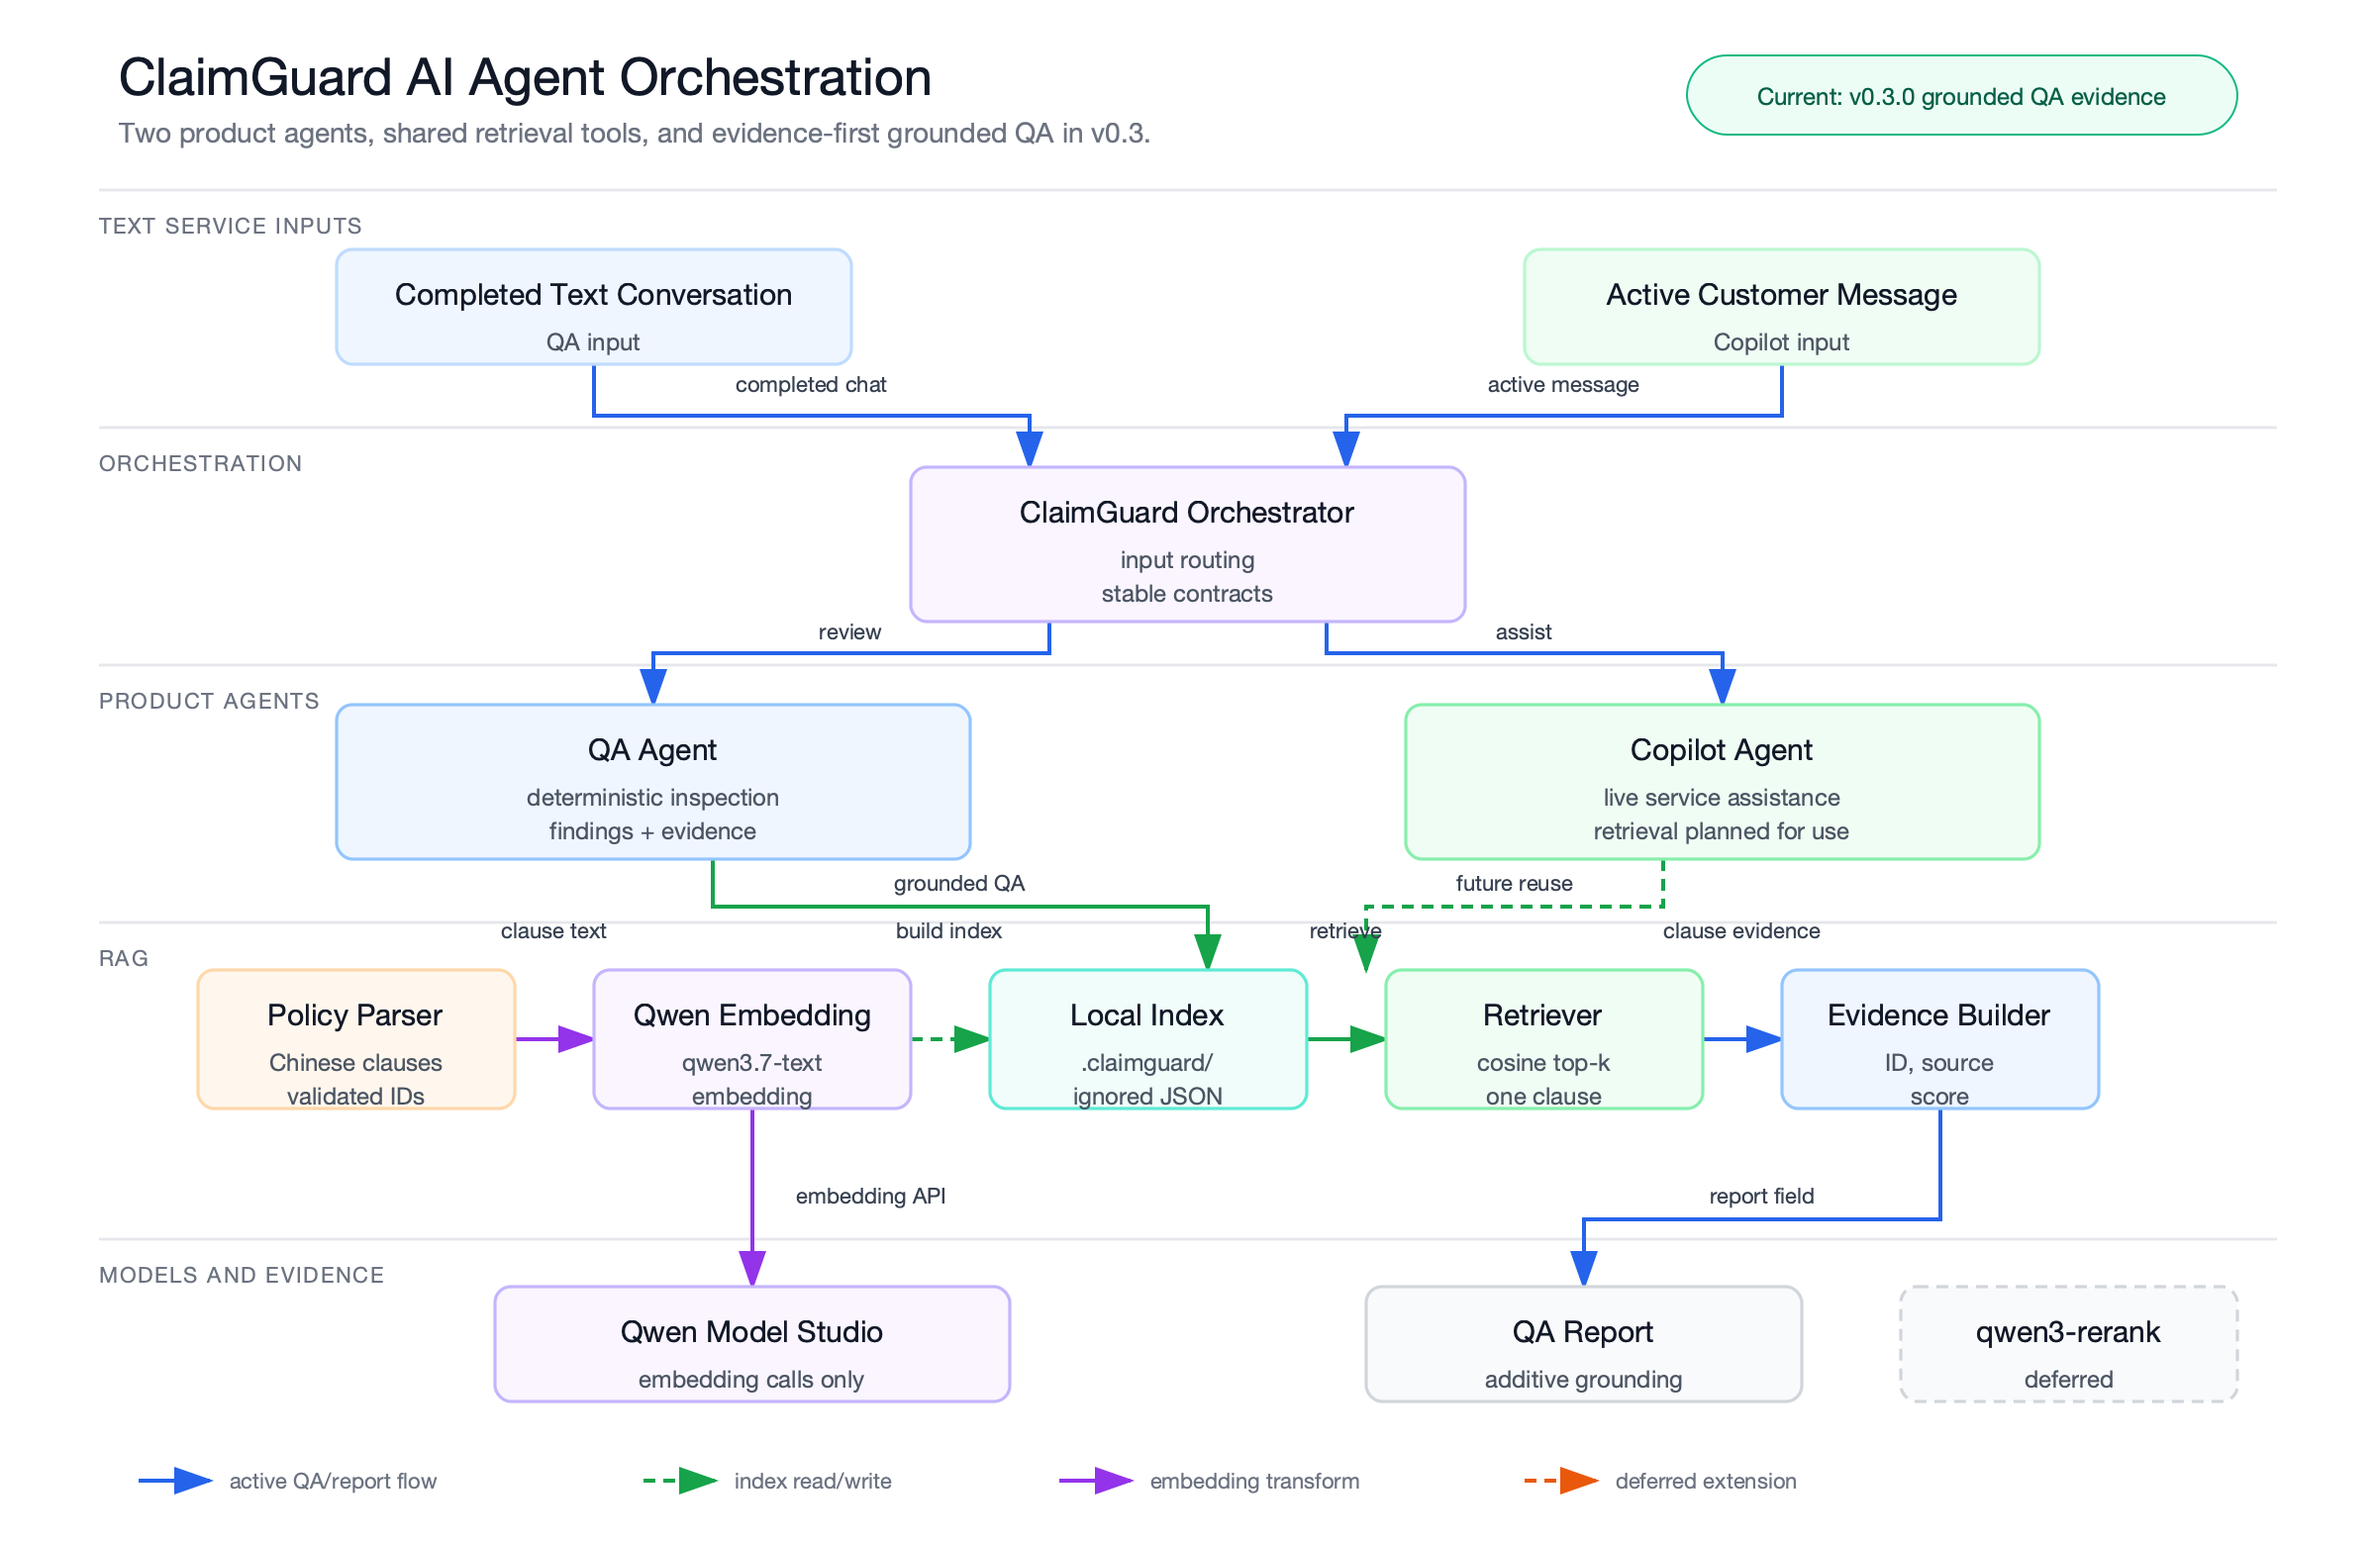
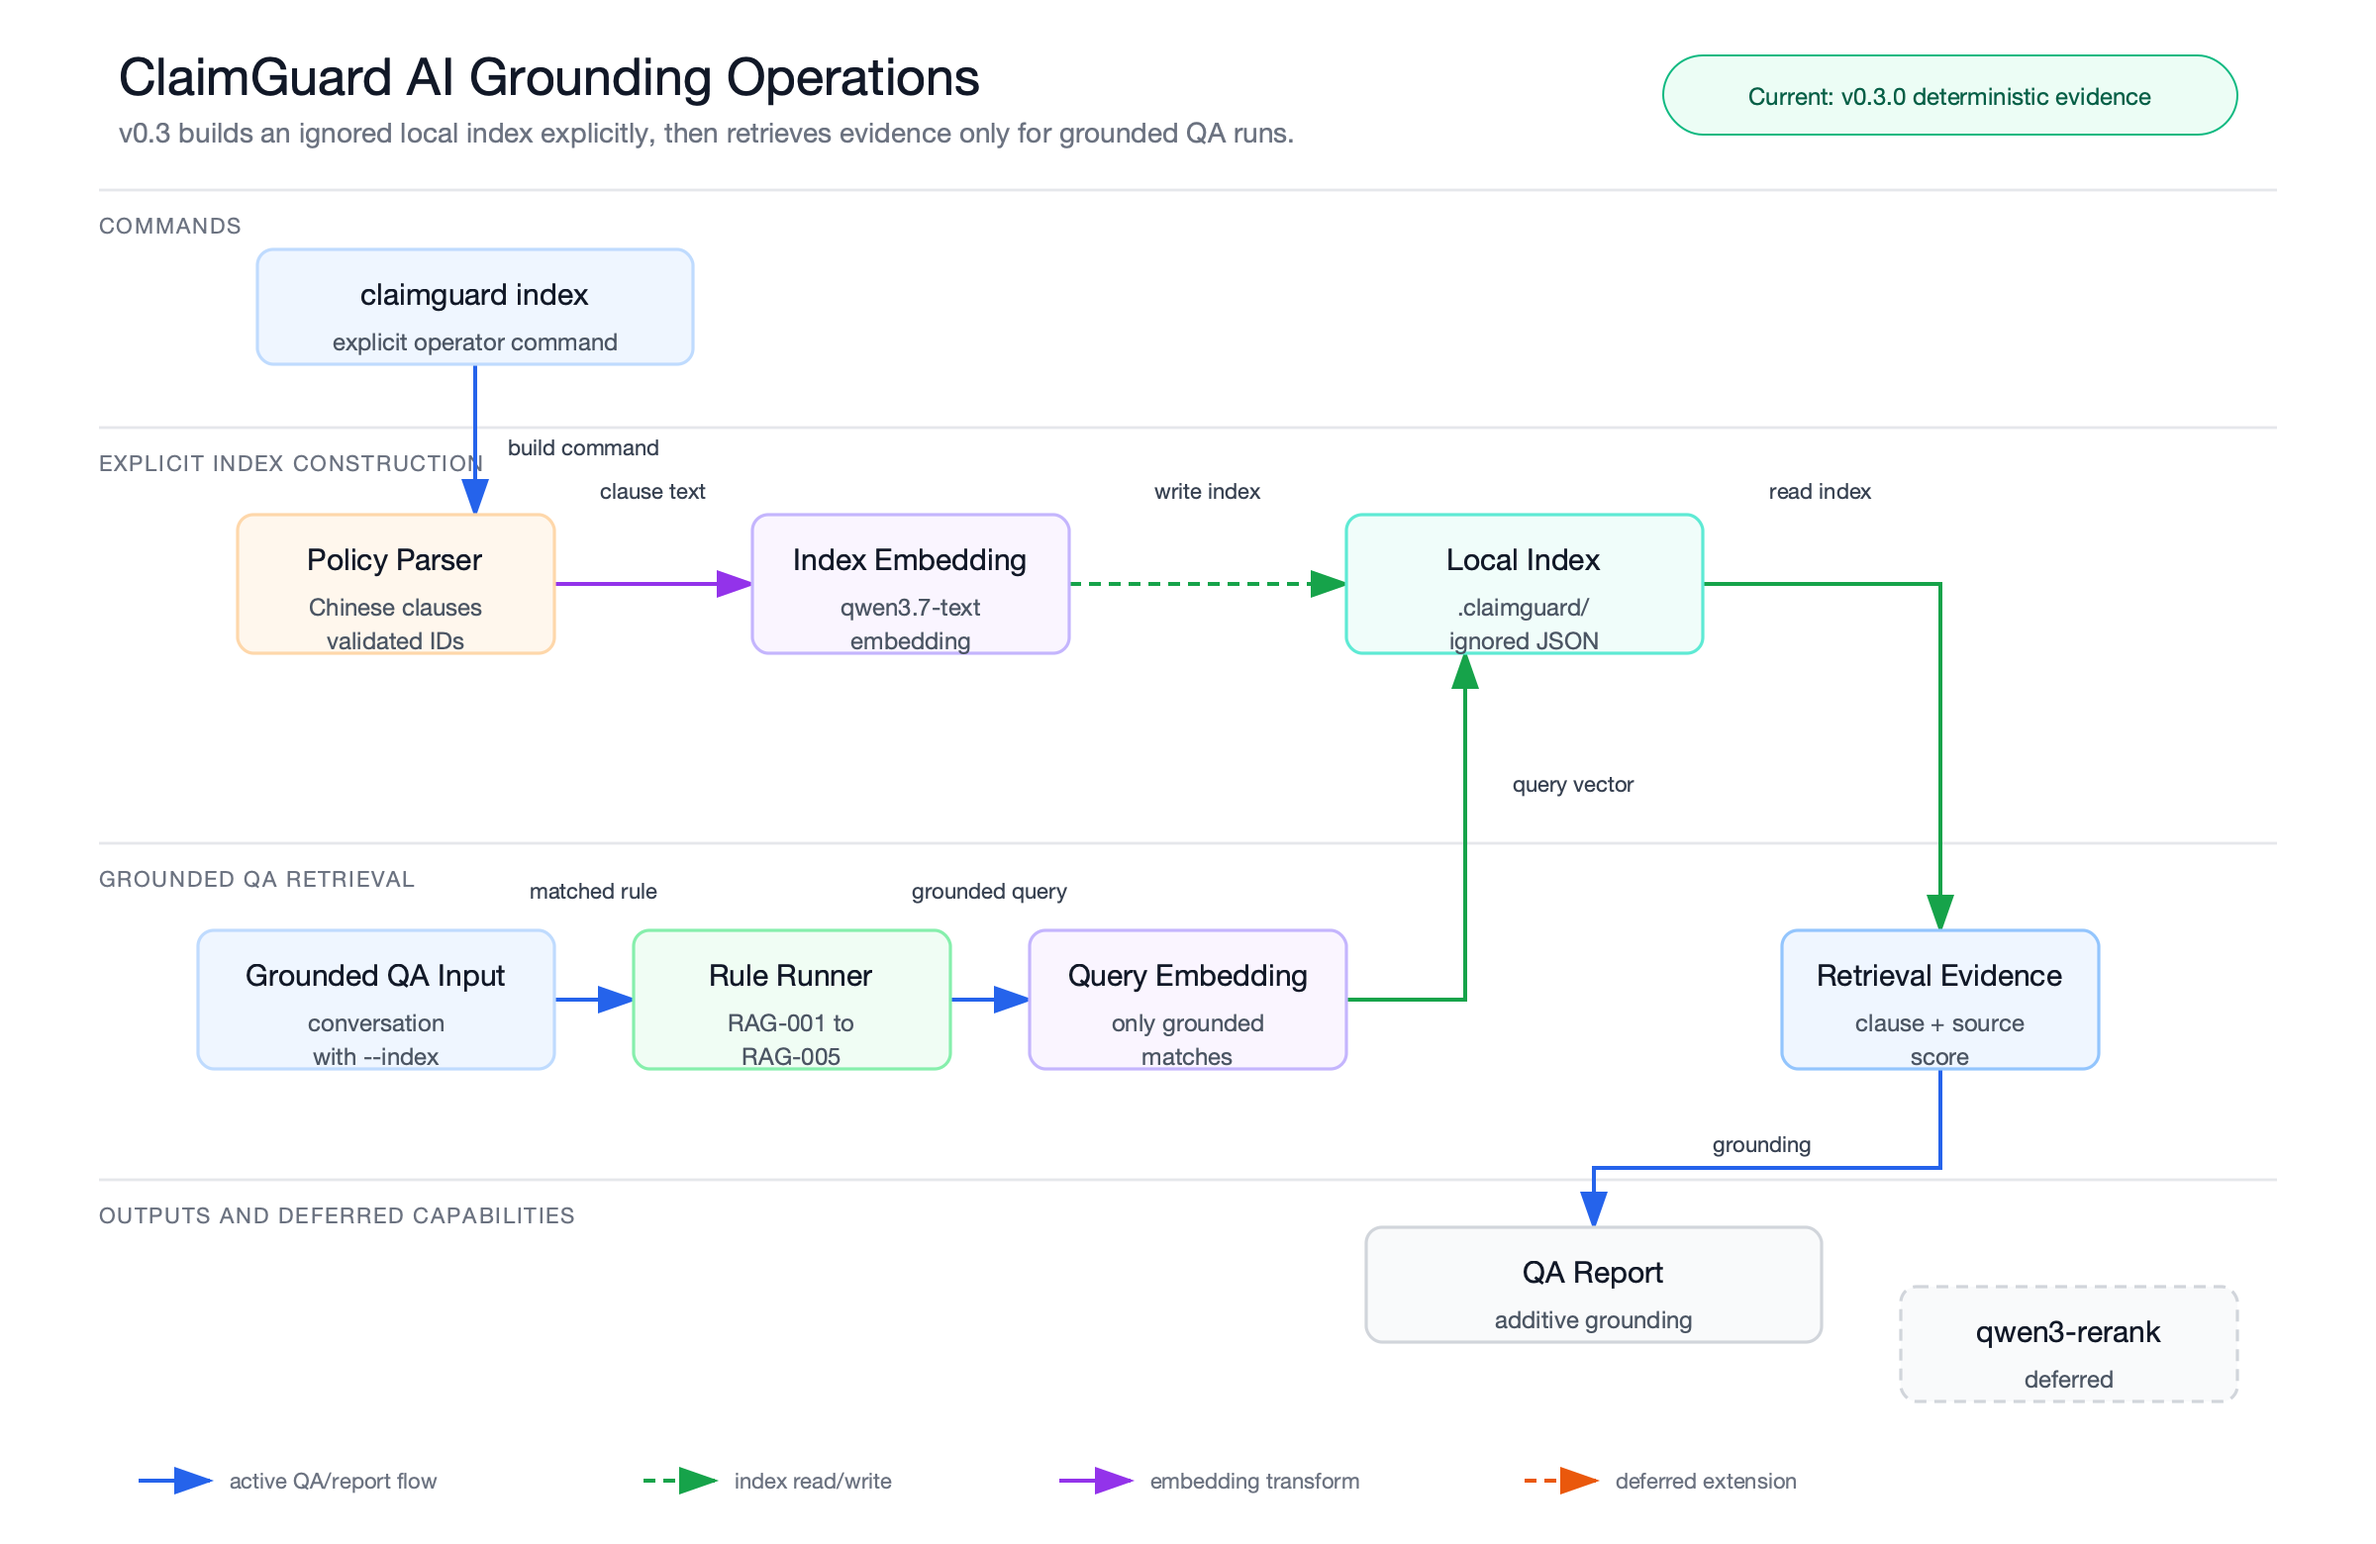
docs: clarify v0.3 grounding runtime scope

diff --git a/tests/test_knowledge.py b/tests/test_knowledge.py
@@ -1,5 +1,6 @@
 import json
 from pathlib import Path
+import re
 import sys
 import tempfile
 import unittest
@@ -29,8 +30,21 @@ class StaticEmbeddingClient:
 
 
 class KnowledgeMetadataTest(unittest.TestCase):
-    def test_public_package_version_matches_v0_3_release(self):
+    def test_package_and_project_metadata_match_v0_3_release(self):
+        project_metadata = (
+            Path(__file__).resolve().parents[1] / "pyproject.toml"
+        ).read_text(encoding="utf-8")
+        project_version_match = re.search(
+            r'^version\s*=\s*"(?P<version>[^"]+)"\s*$',
+            project_metadata,
+            flags=re.MULTILINE,
+        )
+
+        self.assertIsNotNone(project_version_match)
+        project_version = project_version_match.group("version")
         self.assertEqual(claimguard.__version__, "0.3.0")
+        self.assertEqual(project_version, "0.3.0")
+        self.assertEqual(project_version, claimguard.__version__)
 
 
 class KnowledgeTest(unittest.TestCase):

diff --git a/README.md b/README.md
@@ -12,8 +12,9 @@ ClaimGuard AI is a focused GitHub demo project for text-based insurance service.
 ![ClaimGuard AI architecture](docs/assets/architecture.svg)
 
 The current core combines deterministic QA with v0.3 RAG grounding for the
-supported Chinese policy scenarios. LLM judges and a web UI remain future
-milestones; the QA report contract remains stable.
+supported Chinese policy scenarios. v0.3 retrieves clause evidence but does
+not run LLM judges, a citation judge, or reranking; those remain future
+milestones. The QA report contract remains stable.
 
 ## V1 Product
 
@@ -35,24 +36,31 @@ The QA workflow reviews completed conversations.
 - Show violated rule IDs, risk levels, evidence, and reasoning.
 - Suggest a better reply grounded in the correct policy clause.
 
-## V1 Rule Matrix
+## V1 Target Rule Matrix
+
+This is the intended V1 rule design, not a list of active v0.3 runtime
+judges. v0.3 implements deterministic matching and retrieval evidence for
+`RAG-001` through `RAG-005`; LLM and citation-judge detection remains
+deferred.
 
 | Rule ID | Rule | Category | Risk | Detection |
 | --- | --- | --- | --- | --- |
-| SEM-001 | Counter-questioning the customer | Semantic | Critical | LLM judge |
-| SEM-002 | Answer does not address customer intent | Semantic | Critical | Intent + LLM judge |
-| SEM-003 | Impatient service tone | Semantic | Critical | LLM judge |
-| SEM-004 | Complaint not acknowledged or soothed | Semantic | Critical | Intent + LLM judge |
-| SEM-005 | Unapproved commitment | Semantic | Critical | LLM judge |
-| PROC-001 | Incomplete identity disclosure | Process | High | Rule + LLM |
-| PROC-002 | Missing closing statement | Process | Low | Rule + LLM |
-| RAG-001 | Claim amount dispute: deductible | Knowledge-grounded | Medium | RAG + LLM judge |
-| RAG-002 | Pre-policy or waiting-period treatment denial | Knowledge-grounded | Medium | RAG + LLM judge |
-| RAG-003 | Disease outside policy coverage | Knowledge-grounded | Medium | RAG + LLM judge |
-| RAG-004 | Accident definition explanation | Knowledge-grounded | Medium | RAG + LLM judge |
-| RAG-005 | Dynamic clause citation for pet insurance denial | Knowledge-grounded | High | Intent + RAG + Citation judge |
+| SEM-001 | Counter-questioning the customer | Semantic | Critical | LLM judge (future) |
+| SEM-002 | Answer does not address customer intent | Semantic | Critical | Intent + LLM judge (future) |
+| SEM-003 | Impatient service tone | Semantic | Critical | LLM judge (future) |
+| SEM-004 | Complaint not acknowledged or soothed | Semantic | Critical | Intent + LLM judge (future) |
+| SEM-005 | Unapproved commitment | Semantic | Critical | LLM judge (future) |
+| PROC-001 | Incomplete identity disclosure | Process | High | Rule + LLM (future) |
+| PROC-002 | Missing closing statement | Process | Low | Rule + LLM (future) |
+| RAG-001 | Claim amount dispute: deductible | Knowledge-grounded | Medium | RAG evidence + LLM judge (future) |
+| RAG-002 | Pre-policy or waiting-period treatment denial | Knowledge-grounded | Medium | RAG evidence + LLM judge (future) |
+| RAG-003 | Disease outside policy coverage | Knowledge-grounded | Medium | RAG evidence + LLM judge (future) |
+| RAG-004 | Accident definition explanation | Knowledge-grounded | Medium | RAG evidence + LLM judge (future) |
+| RAG-005 | Dynamic clause citation for pet insurance denial | Knowledge-grounded | High | Intent + RAG evidence + Citation judge (future) |
 
-`RAG-005` is the V1 hero case because it demonstrates intent routing, retrieval, citation accuracy, and grounded answer quality in one scenario.
+`RAG-005` is the V1 target hero case because it is intended to demonstrate
+intent routing, retrieval, citation accuracy, and grounded answer quality in
+one scenario. In v0.3 it attaches retrieved clause evidence only.
 
 ## Technical Direction
 
@@ -70,7 +78,7 @@ The project should show product judgment, not agent sprawl. A compact workflow i
 
 Current package version: `0.3.0`.
 
-M2 adds the first deterministic rule runner. QA findings now come from conversation text instead of the fixture's `expected_risks` field. The fixture field remains as test oracle data while LLM and RAG behavior are still under development.
+M2 adds the first deterministic rule runner. QA findings now come from conversation text instead of the fixture's `expected_risks` field. The fixture field remains as test oracle data while LLM behavior is still under development.
 
 `v0.2.1` is a documentation patch that adds README architecture and roadmap diagrams.
 
@@ -80,7 +88,8 @@ orchestration and domestic model defaults in `docs/agent-orchestration.md`.
 `v0.3.0` adds deterministic Chinese policy grounding: a policy parser and
 validated local index, Qwen `qwen3.7-text-embedding` retrieval, five supported
 RAG rules, retrieval evidence on QA findings, and backward-compatible CLI
-commands for index creation and grounded QA.
+commands for index creation and grounded QA. It does not add LLM judges,
+reranking, or citation-accuracy judgment.
 
 ## Repository Layout
 

diff --git a/docs/architecture.md b/docs/architecture.md
@@ -4,13 +4,18 @@ ClaimGuard AI uses three judgment paths depending on the risk type. In v0.3,
 the deterministic knowledge-grounded path is implemented for five Chinese
 policy scenarios and attaches retrieved-clause evidence to its findings.
 
-## Semantic QA
+## Semantic QA (Future)
 
-Semantic rules use intent detection plus LLM judgment to inspect tone, relevance, complaint handling, and unsupported commitments. These rules are not simple keyword checks because hostile or evasive responses can appear in many forms.
+The target semantic rules will use intent detection plus LLM judgment to
+inspect tone, relevance, complaint handling, and unsupported commitments.
+Those LLM judges are not active in v0.3.
 
-## Process QA
+## Process QA (Future)
 
-Process rules combine deterministic checks with LLM normalization. The goal is to accept flexible wording while still enforcing required service steps, such as identity disclosure and conversation closing.
+The target process rules will combine deterministic checks with LLM
+normalization. This future work aims to accept flexible wording while still
+enforcing required service steps, such as identity disclosure and conversation
+closing.
 
 ## Knowledge-grounded QA
 
@@ -19,8 +24,10 @@ Knowledge-grounded rules parse supported Chinese policy headings, use
 top retrieved clause to a finding. The implemented v0.3 rules are `RAG-001`
 through `RAG-005`; they cover deductible, waiting-period, coverage, accident,
 and denial-citation cases. The report exposes clause ID, title, text, source
-path, and retrieval score as additive evidence. `RAG-005` remains the V1 hero
-case because it demonstrates retrieval and citation evidence in one flow.
+path, and retrieval score as additive evidence. This evidence identifies the
+selected clause; it is not a citation-accuracy judgment. `RAG-005` remains a
+future V1 hero case for retrieval and citation accuracy after a citation judge
+is implemented.
 
 The local index is an ignored operator artifact under `.claimguard/`. The
 embedding client is created only for index creation and grounded retrieval;

diff --git a/docs/agent-orchestration.md b/docs/agent-orchestration.md
@@ -6,25 +6,26 @@ judgment, and clear QA evidence instead of a large multi-agent chat graph.
 
 ## Current State
 
-The current `v0.3.0` codebase keeps its deterministic QA workflow and adds a
-narrow, evidence-producing RAG path for supported Chinese policy scenarios:
+The current `v0.3.0` codebase keeps its deterministic QA workflow and adds two
+separate RAG operations for supported Chinese policy scenarios:
 
 ```text
-QA CLI
-  -> Conversation Loader
-  -> Rule Catalog
-  -> Deterministic Rule Runner
-  -> optional Policy Parser + Local Knowledge Index
-  -> optional Qwen Embedding Retrieval
+Index construction (explicit `claimguard index` command)
+  -> Policy Parser -> Qwen Embedding -> Local Knowledge Index
+
+Grounded QA (only with `--index`)
+  -> Conversation Loader -> Rule Catalog -> Deterministic Rule Runner
+  -> Query Embedding -> Existing Local Knowledge Index -> Retrieval Evidence
   -> QA Report Builder
 ```
 
 This stage proves the basic quality-inspection contract: completed
-conversation in, structured QA report out. When `--index` is supplied, matched
-Chinese RAG findings include retrieved-clause evidence. The legacy invocation
-remains available without an index or a model call.
+conversation in, structured QA report out. Index construction is not part of
+normal QA execution. When `--index` is supplied, matched Chinese RAG findings
+include retrieved-clause evidence. The legacy invocation remains available
+without an index or a model call.
 
-## Target Topology
+## Future Target Topology
 
 The target system exposes two product agents:
 
@@ -38,6 +39,9 @@ separate product-facing agents.
 ![ClaimGuard AI agent orchestration](assets/agent-orchestration.svg)
 
 ## Product Agents
+
+The product-agent descriptions below are future topology. v0.3 implements the
+deterministic CLI workflow above, not LLM-backed QA or Copilot agents.
 
 ### ClaimGuard Orchestrator
 
